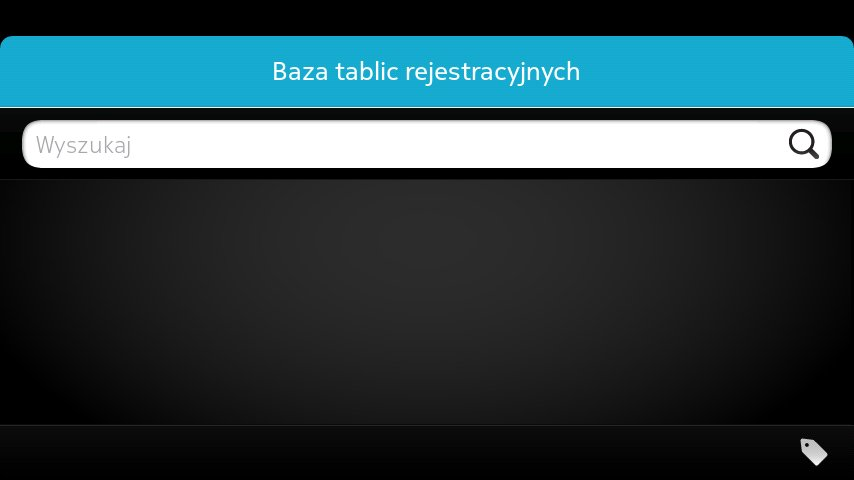
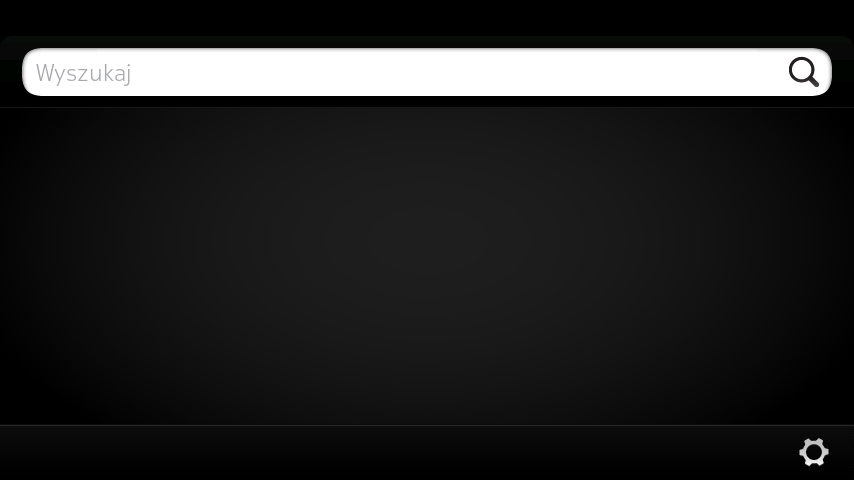
1.0.0-tp3 version.

Changed region(s): [[0.0, 0.0625, 1.0, 0.375], [0.9133, 0.9062, 0.9742, 0.9688]]

diff --git a/qml/tablice/SettingsPage.qml b/qml/tablice/SettingsPage.qml
@@ -1,0 +1,115 @@
+import QtQuick 1.1
+import com.nokia.meego 1.0
+import com.nokia.extras 1.1
+import "UIConstants.js" as UI
+
+Page {
+    id: settingsPage
+    tools: ToolBarLayout {
+        ToolIcon {
+            platformIconId: "toolbar-back"
+            anchors.left: parent.left
+            onClicked: pageStack.pop()
+        }
+        ToolIcon {
+            platformIconId: "toolbar-tag"
+            anchors.right: parent.right
+            onClicked: appWindow.showAboutDialog()
+        }
+    }
+
+    Image {
+        id: header
+        anchors {
+            left: parent.left
+            right: parent.right
+            top: parent.top
+        }
+        z: 1
+        height: 72
+        source: "image://theme/" + appWindow._APP_COLOR + "-meegotouch-view-header-fixed"
+        Label {
+            id: titleLabel
+            anchors.verticalCenter: parent.verticalCenter
+            x: (parent.width / 2) - titleLabel.width/2
+            text: "Ustawienia"
+            color: "white"
+            font.pixelSize: 26
+        }
+    }
+
+    Flickable {
+        anchors.fill: parent
+        anchors.leftMargin: UI.LISTDELEGATE_MARGIN
+        anchors.rightMargin: UI.LISTDELEGATE_MARGIN
+        contentHeight: parent.height + 1
+
+        Label {
+            id: title
+            y: header.y + header.height + 20
+            text: "Wyszukuj po:  "
+            color: UI.LISTDELEGATE_TEXT_COLOR
+        }
+
+        Separator {
+            y: title.y + 10
+            anchors.left: title.right
+            anchors.right: parent.right
+        }
+
+        Label {
+            id: searchByCity
+            y: title.y + title.height + 32
+            x: 2 * UI.LISTDELEGATE_MARGIN
+            text: "nazwach miast"
+        }
+
+        MySwitch {
+            id: searchByCitySwitch
+            y: searchByCity.y - 8
+            anchors.right: parent.right
+            anchors.rightMargin: UI.LISTDELEGATE_MARGIN
+            checked: Settings.getEnableSearchingByCity()
+            onCheckedChanged: {
+                Settings.setEnableSearchingByCity(checked)
+            }
+        }
+
+        Label {
+            id: searchByDistrict
+            y: searchByCity.y + searchByCity.height + 32
+            x: 2 * UI.LISTDELEGATE_MARGIN
+            text: "nazwach powiatów"
+        }
+
+        MySwitch {
+            id: searchByDistrictSwitch
+            y: searchByDistrict.y - 8
+            anchors.right: parent.right
+            anchors.rightMargin: UI.LISTDELEGATE_MARGIN
+            checked: Settings.getEnableSearchingByDistrict()
+            onCheckedChanged: {
+                Settings.setEnableSearchingByDistrict(checked)
+            }
+        }
+
+        Label {
+            id: searchByDistrictB
+            y: searchByDistrict.y + searchByDistrict.height + 32
+            x: 2 * UI.LISTDELEGATE_MARGIN
+            text: "nazwach województw"
+        }
+
+        MySwitch {
+            id: searchByDistrictBSwitch
+            y: searchByDistrictB.y - 8
+            anchors.right: parent.right
+            anchors.rightMargin: UI.LISTDELEGATE_MARGIN
+            checked: Settings.getEnableSearchingByDistrictB()
+            onCheckedChanged: {
+                Settings.setEnableSearchingByDistrictB(checked)
+            }
+        }
+
+    }
+}

diff --git a/qml/tablice/MainPage.qml b/qml/tablice/MainPage.qml
@@ -25,7 +25,7 @@ Page {
             id: titleLabel
             anchors.verticalCenter: parent.verticalCenter
             x: (parent.width / 2) - titleLabel.width/2
-            text: "Baza tablic rejestracyjnych"
+            text: "Lista tablic rejestracyjnych"
             color: "white"
             font.pixelSize: 26
         }
@@ -38,13 +38,14 @@ Page {
         width: parent.width - 40
         height: parent.height - y
         model: Plates
-        delegate:  MyDelegate {}
+        delegate: MyDelegate {}
     }
     ScrollDecorator {
         flickableItem: listView
     }
 
-    function searchList(query) {
+    function searchList(query)
+    {
         searchInput.focus = false;
         searchInput.platformCloseSoftwareInputPanel();
         filter = query
@@ -56,7 +57,8 @@ Page {
         listView.focus = true
     }
 
-    function searchClear() {
+    function searchClear()
+    {
         listView.model = fullModel
         filter = ""
         searchInput.text = ""

diff --git a/qml/tablice/AboutDialog.qml b/qml/tablice/AboutDialog.qml
@@ -4,7 +4,7 @@ import com.nokia.meego 1.0
 QueryDialog {
     id: dialog
 
-    titleText: "Baza tablic rejestracyjnych 0.9.8-tp1"
+    titleText: "Tablice 1.0.0-tp3"
     icon: "/usr/share/icons/hicolor/80x80/apps/tablice.png"
     message: "Program umożliwia przeglądanie listy najpopularniejszych samochodowych tablic rejestracyjnych w Polsce. <br><br> &copy; Tomasz Pieniążek 2011 <br><br>"
 
@@ -20,7 +20,7 @@ QueryDialog {
         opacity: 0
         textFormat: Text.RichText
         text: "Strona internetowa: <a href=\"http://www.maemo-forum.pl\">maemo-forum.pl</a>"
-        onLinkActivated: Qt.openUrlExternally(link);
+        onLinkActivated: Qt.openUrlExternally("http://maemo-forum.pl/meego-tablice-vt2066.htm");
 
         transitions: Transition {
             from: ""; to: "show"; reversible: false

diff --git a/qml/tablice/main.qml b/qml/tablice/main.qml
@@ -38,6 +38,12 @@ PageStackWindow {
         aboutDialog.open();
     }
 
+    function showSettingsPage()
+    {
+        var settingsPage = ObjectCreator.createObject(Qt.resolvedUrl("SettingsPage.qml"), appWindow.pageStack);
+        pageStack.push(settingsPage)
+    }
+
     function openInsertToDetails()
     {
         var inserSheet = ObjectCreator.createObject(Qt.resolvedUrl("InsertDetailsSheet.qml"), appWindow.pageStack);
@@ -55,9 +61,9 @@ PageStackWindow {
         visible: true
 
         ToolIcon {
-            platformIconId: "toolbar-tag"
+            platformIconId: "toolbar-settings"
             anchors.right: parent.right
-            onClicked: showAboutDialog()
+            onClicked: showSettingsPage()
         }
     }
 }

diff --git a/qml/tablice/MySwitch.qml b/qml/tablice/MySwitch.qml
@@ -1,0 +1,8 @@
+import QtQuick 1.1
+import com.nokia.meego 1.0
+
+Switch {
+    platformStyle: SwitchStyle {
+        switchOn: "image://theme/" + appWindow._APP_COLOR + "-meegotouch-switch-on"+__invertedString
+    }
+}

diff --git a/qml/tablice/DetailsPage.qml b/qml/tablice/DetailsPage.qml
@@ -10,8 +10,6 @@ Page {
     property string kod: ""
 
     tools: ToolBarLayout {
-        id: toolBar
-
         ToolIcon {
             platformIconId: "toolbar-back"
             onClicked: appWindow.pageStack.pop()

diff --git a/qml/tablice/Separator.qml b/qml/tablice/Separator.qml
@@ -1,0 +1,6 @@
+import QtQuick 1.1
+import com.nokia.meego 1.0
+
+Image {
+    source: "image://theme/meegotouch-separator-" + (theme.inverted ?  "inverted-" : "")+ "background-horizontal"
+}

diff --git a/settings.cpp b/settings.cpp
@@ -1,0 +1,67 @@
+#include "settings.h"
+
+Settings::Settings(QObject *parent) :
+    QObject(parent)
+{
+
+}
+
+void Settings::setEnableSearchingByCity(bool enable)
+{
+    QSettings settings;
+
+    settings.setValue("searching/city", enable);
+}
+
+void Settings::setEnableSearchingByDistrict(bool enable)
+{
+    QSettings settings;
+
+    settings.setValue("searching/district", enable);
+}
+
+void Settings::setEnableSearchingByDistrictB(bool enable)
+{
+    QSettings settings;
+
+    settings.setValue("searching/districtB", enable);
+}
+
+void Settings::setEnableSearchingBySpecialPlates(bool enable)
+{
+    QSettings settings;
+
+    settings.setValue("searching/special_plates", enable);
+}
+
+bool Settings::getEnableSearchingByCity()
+{
+    QSettings settings;
+    bool value =  settings.value("searching/city", true).toBool();
+
+    return value;
+}
+
+bool Settings::getEnableSearchingByDistrict()
+{
+    QSettings settings;
+    bool value =  settings.value("searching/district", true).toBool();
+
+    return value;
+}
+
+bool Settings::getEnableSearchingByDistrictB()
+{
+    QSettings settings;
+    bool value =  settings.value("searching/districtB", false).toBool();
+
+    return value;
+}
+
+bool Settings::getEnableSearchingBySpecialPlates()
+{
+    QSettings settings;
+    bool value =  settings.value("searching/special_plates", true).toBool();
+
+    return value;
+}

diff --git a/listmodel.cpp b/listmodel.cpp
@@ -89,8 +89,6 @@ void ListModel::searchFor(const QString &value)
     else if (number == 4)
         chopAt = newValue.length() - 3;
 
-    qDebug() << "Number: " << number << " chopAt: " << chopAt;
-
     if(number != -1)
         newValue.chop(chopAt);
 
@@ -101,7 +99,9 @@ void ListModel::searchFor(const QString &value)
         foreach(PlateItem* item, m_list) {
             newItem = new PlateItem(item->name(), item->wojewodztwo());
             if(item->name().startsWith(newValue, Qt::CaseInsensitive)
-                    || item->powiat().startsWith(newValue, Qt::CaseInsensitive) || item->miasto().startsWith(newValue, Qt::CaseInsensitive)){
+                    || ( item->powiat().startsWith(newValue, Qt::CaseInsensitive) && settings->getEnableSearchingByDistrict())
+                    || ( item->miasto().startsWith(newValue, Qt::CaseInsensitive) && settings->getEnableSearchingByCity())
+                    || ( item->wojewodztwo().startsWith(newValue, Qt::CaseInsensitive) && settings->getEnableSearchingByDistrictB())){
 
                 newItem->setMiasto(item->miasto());
                 newItem->setPowiat(item->powiat());
@@ -164,4 +164,9 @@ PlateItem * ListModel::takeRow(int row)
   PlateItem* item = m_list.takeAt(row);
   endRemoveRows();
   return item;
+}
+
+void ListModel::setSettings(Settings *settings)
+{
+    this->settings = settings;
 }

diff --git a/main.cpp b/main.cpp
@@ -8,8 +8,7 @@
 #include "tables.h"
 #include "listmodel.h"
 #include "plateitem.h"
-
-#include <QDebug>
+#include "settings.h"
 
 Q_DECL_EXPORT int main(int argc, char *argv[])
 {
@@ -19,15 +18,18 @@ Q_DECL_EXPORT int main(int argc, char *argv[])
     app->setOrganizationDomain("arcean.com");
     app->setApplicationName("tablice");
 
+    Settings settings;
     Tables tables;
     ListModel *plates = new ListModel(new PlateItem, qApp);
     plates->searchModel = new ListModel(new PlateItem, qApp);
+    plates->setSettings(&settings);
     tables.setListModel(plates);
 
     QDeclarativeContext *context = view->rootContext();
     context->setContextProperty("Tables", &tables);
     context->setContextProperty("EmptyPlates", plates->searchModel);
     context->setContextProperty("Plates", plates);
+    context->setContextProperty("Settings", &settings);
 
     view->setViewport(new QGLWidget());
     view->setSource(QUrl::fromLocalFile("/opt/tablice/qml/tablice/main.qml"));

diff --git a/settings.h b/settings.h
@@ -1,0 +1,25 @@
+#ifndef SETTINGS_H
+#define SETTINGS_H
+
+#include <QObject>
+#include <QSettings>
+
+class Settings : public QObject
+{
+    Q_OBJECT
+public:
+    explicit Settings(QObject *parent = 0);
+
+public slots:
+    void setEnableSearchingByCity(bool enable);
+    void setEnableSearchingByDistrict(bool enable);
+    void setEnableSearchingByDistrictB(bool enable);
+    void setEnableSearchingBySpecialPlates(bool enable);
+    bool getEnableSearchingByCity();
+    bool getEnableSearchingByDistrict();
+    bool getEnableSearchingByDistrictB();
+    bool getEnableSearchingBySpecialPlates();
+
+};
+
+#endif // SETTINGS_H

diff --git a/listmodel.h b/listmodel.h
@@ -6,6 +6,7 @@
 #include <QVariant>
 
 #include "plateitem.h"
+#include "settings.h"
 
 class ListItem: public QObject {
   Q_OBJECT
@@ -28,6 +29,7 @@ class ListModel : public QAbstractListModel
 public:
     explicit ListModel(PlateItem* prototype, QObject* parent = 0);
     ~ListModel();
+    void setSettings(Settings *settings);
 
     ListModel* searchModel;
 
@@ -51,6 +53,7 @@ private:
     PlateItem* m_prototype;
     QObject *parent;
     QList<PlateItem*> m_list;
+    Settings *settings;
 
 };
 
